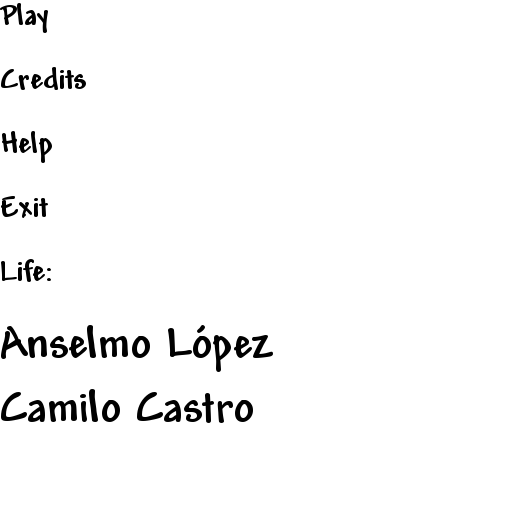
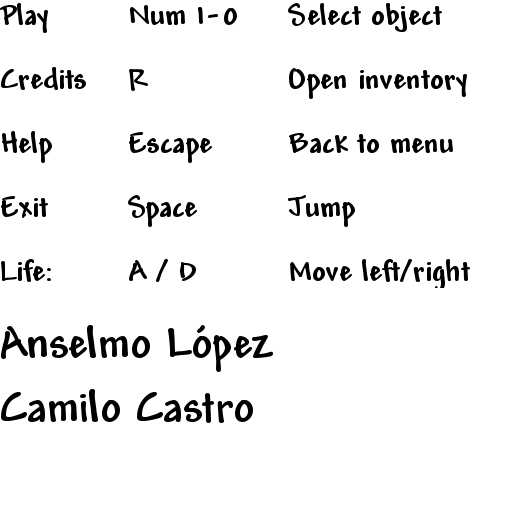
kek

diff --git a/HelpScene.cpp b/HelpScene.cpp
@@ -2,25 +2,86 @@
 
 HelpScene::HelpScene()
 {
+	instructions = NULL;
 }
 
 HelpScene::~HelpScene()
 {
+	if (instructions != NULL)
+		delete instructions;
 }
 
 void HelpScene::init()
 {
+	bmenu = false;
+
+	initShaders();
+
+	projection = glm::ortho(0.f, float(SCREEN_WIDTH - 1), float(SCREEN_HEIGHT - 1), 0.f);
+
+	instructions = Sprite::createSprite("images/gui.png", glm::vec4(128, 0, 352, 256), &texProgram);
+	//n1->setOrigin(140,32);
+	instructions->setPosition(450, 200);
+
+	background = Sprite::createSprite("images/MapBG1.png", glm::vec4(0, 0, 112, 65), &texProgram);
+	background->setScale(glm::vec2(12, 12));
 }
 
 void HelpScene::update(int deltatime)
 {
+	if (Game::instance().getReleasedMouseKey(0)) {
+		bmenu = true;
+	}
 }
 
 void HelpScene::render()
 {
+	texProgram.use();
+	texProgram.setUniformMatrix4f("projection", projection);
+	//texProgram.setUniformMatrix4f("ftcMatrix", ftcMatrix);
+	texProgram.default();
+
+	background->render();
+	instructions->render();
 }
 
 BasicScene * HelpScene::changeState()
 {
+	if (bmenu) {
+		BasicScene* bs = new MenuScene();
+		bs->init();
+		return bs;
+	}
 	return this;
+}
+
+void HelpScene::initShaders()
+{
+	Shader vShader, fShader;
+
+	vShader.initFromFile(VERTEX_SHADER, "shaders/texture.vert");
+	if (!vShader.isCompiled())
+	{
+		cout << "Vertex Shader Error" << endl;
+		cout << "" << vShader.log() << endl << endl;
+	}
+	fShader.initFromFile(FRAGMENT_SHADER, "shaders/texture.frag");
+	if (!fShader.isCompiled())
+	{
+		cout << "Fragment Shader Error" << endl;
+		cout << "" << fShader.log() << endl << endl;
+	}
+	texProgram.init();
+	texProgram.addShader(vShader);
+	texProgram.addShader(fShader);
+	texProgram.link();
+	if (!texProgram.isLinked())
+	{
+		cout << "Shader Linking Error" << endl;
+		cout << "" << texProgram.log() << endl << endl;
+	}
+	texProgram.bindFragmentOutput("outColor");
+	vShader.free();
+	fShader.free();
+	GLenum error = glGetError();
 }

diff --git a/MenuScene.cpp b/MenuScene.cpp
@@ -8,6 +8,9 @@ MenuScene::MenuScene()
 {
 	button1 = NULL;
 	button2 = NULL;
+	button3 = NULL;
+	button4 = NULL;
+	background = NULL;
 }
 
 MenuScene::~MenuScene()
@@ -17,6 +20,15 @@ MenuScene::~MenuScene()
 
 	if (button2 != NULL)
 		delete button2;
+
+	if (button3 != NULL)
+		delete button3;
+
+	if (button4 != NULL)
+		delete button4;
+
+	if (background != NULL)
+		delete background;
 }
 
 void MenuScene::init()
@@ -29,13 +41,16 @@ void MenuScene::init()
 
 	projection = glm::ortho(0.f, float(SCREEN_WIDTH - 1), float(SCREEN_HEIGHT - 1), 0.f);
 	button1 = Sprite::createSprite("images/gui.png", glm::vec4(0, 0, 64, 32), &texProgram);
-	button1->setPosition(500, 250);
+	button1->setPosition(550, 250);
 	button2 = Sprite::createSprite("images/gui.png", glm::vec4(0, 128, 64, 32), &texProgram);
-	button2->setPosition(500, 300);
+	button2->setPosition(550, 300);
 	button3 = Sprite::createSprite("images/gui.png", glm::vec4(0, 64, 96, 32), &texProgram);
-	button3->setPosition(500, 350);
+	button3->setPosition(550, 350);
 	button4 = Sprite::createSprite("images/gui.png", glm::vec4(0, 192, 64, 32), &texProgram);
-	button4->setPosition(500, 400);
+	button4->setPosition(550, 400);
+
+	background = Sprite::createSprite("images/MapBG9.png", glm::vec4(0, 0, 112, 65), &texProgram);
+	background->setScale(glm::vec2(12,12));
 }
 
 void MenuScene::update(int deltatime)
@@ -59,6 +74,8 @@ void MenuScene::render()
 	texProgram.setUniformMatrix4f("projection", projection);
 	//texProgram.setUniformMatrix4f("ftcMatrix", ftcMatrix);
 	texProgram.default();
+
+	background->render();
 
 	button1->render();
 	button2->render();

diff --git a/Inventory.cpp b/Inventory.cpp
@@ -115,17 +115,32 @@ void Inventory::update(int deltatime) {
 		Game::instance().bubble_event();
 	}
 
+	set<string> dead = set<string>();
+
 	for (int y = 0; y < INV_HEIGHT; y++)
 		for (int x = 0; x < INV_WIDTH; x++) {
 			if (inv_obj[y][x] != nullptr && inv_obj[y][x]->getNumObj() == 0) {
+				dead.insert(inv_obj[y][x]->getName());
 				delete inv_obj[y][x];
 				inv_obj[y][x] = nullptr;
 				free_space = glm::vec2(y, x);
 				obj_name.setText("");
 			}
+			else if (inv_obj[y][x] != nullptr){
+				set<string>::iterator it = dead.find(inv_obj[y][x]->getName());
+				if (it != dead.end())
+					dead.erase(*it);
+			}
 		}
 
 	if (updateRecipes) {
+
+		std::set<string>::iterator at;
+		for (at = dead.begin(); at != dead.end(); ++at) {
+			string objname = *at;
+			nameset.erase(objname);
+		}
+
 		rec_obj = vector<GameObject*>();
 		rec_rec = vector<Recipe*>();
 		int c = 0;

diff --git a/CreditScene.cpp b/CreditScene.cpp
@@ -30,7 +30,9 @@ void CreditScene::init()
 	n2 = Sprite::createSprite("images/gui.png", glm::vec4(0, 384, 256, 64), &texProgram);
 	//n2->setOrigin(126, 32);
 	n2->setPosition(400, 450);
-	
+
+	background = Sprite::createSprite("images/MapBG11.png", glm::vec4(0, 0, 112, 65), &texProgram);
+	background->setScale(glm::vec2(12, 12));
 }
 
 void CreditScene::update(int deltatime)
@@ -47,6 +49,7 @@ void CreditScene::render()
 	//texProgram.setUniformMatrix4f("ftcMatrix", ftcMatrix);
 	texProgram.default();
 
+	background->render();
 	n1->render();
 	n2->render();
 }

diff --git a/Enemigo.cpp b/Enemigo.cpp
@@ -53,6 +53,11 @@ void Enemigo::init(const glm::ivec2 &tileMapPos, ShaderProgram &shaderProgram)
 
 void Enemigo::update(int deltaTime)
 {
+	//glm::vec2 ppos = sc->getPlayerPos();
+	//glm::ivec2 diff = glm::ivec2(std::abs(ppos.x - posEnemigo.x), std::abs(ppos.y - posEnemigo.y));
+	//float dist = std::sqrt(diff.x*diff.x + diff.y*diff.y);
+	//if (dist < 8) 
+	
 	sprite->update(deltaTime);
 	Estado* nuevo = estado->cambiarEstado();
 	if (nuevo != NULL) {

diff --git a/HelpScene.h b/HelpScene.h
@@ -1,5 +1,8 @@
 #pragma once
 #include "BasicScene.h"
+#include "Sprite.h"
+#include "Game.h"
+#include <iostream>
 
 class HelpScene : public BasicScene
 {
@@ -13,5 +16,10 @@ public:
 	BasicScene* changeState();
 
 private:
-
+	void initShaders();
+	ShaderProgram texProgram;
+	glm::mat4 projection;
+	Sprite* instructions;
+	Sprite* background;
+	bool bmenu;
 };

diff --git a/Player.cpp b/Player.cpp
@@ -21,6 +21,7 @@ enum PlayerAnims
 void Player::init(const glm::ivec2 &tileMapPos, ShaderProgram &shaderProgram)
 {
 	bJumping = false;
+	radius = 8;
 
 	spritesheet.loadFromFile("images/bub.png", TEXTURE_PIXEL_FORMAT_RGBA);
 	sprite = Sprite::createSprite(glm::ivec2(32, 32), glm::vec2(0.25, 0.25), &spritesheet, &shaderProgram);

diff --git a/MenuScene.h b/MenuScene.h
@@ -22,6 +22,9 @@ private:
 	Sprite* button2;
 	Sprite* button3;
 	Sprite* button4;
+
+	Sprite* background;
+
 	bool bplay;
 	bool bhelp;
 	bool bcredit;

diff --git a/Player.h b/Player.h
@@ -35,6 +35,9 @@ private:
 	Sprite *sprite;
 	TileMap *map;
 	Inventory *inventory;
+
+	float radius;
+	//vector<Enemigo> collisionList;
 };
 
 

diff --git a/CreditScene.h b/CreditScene.h
@@ -21,6 +21,6 @@ private:
 	glm::mat4 projection;
 	Sprite* n1;
 	Sprite* n2;
-
+	Sprite* background;
 	bool bmenu;
 };
